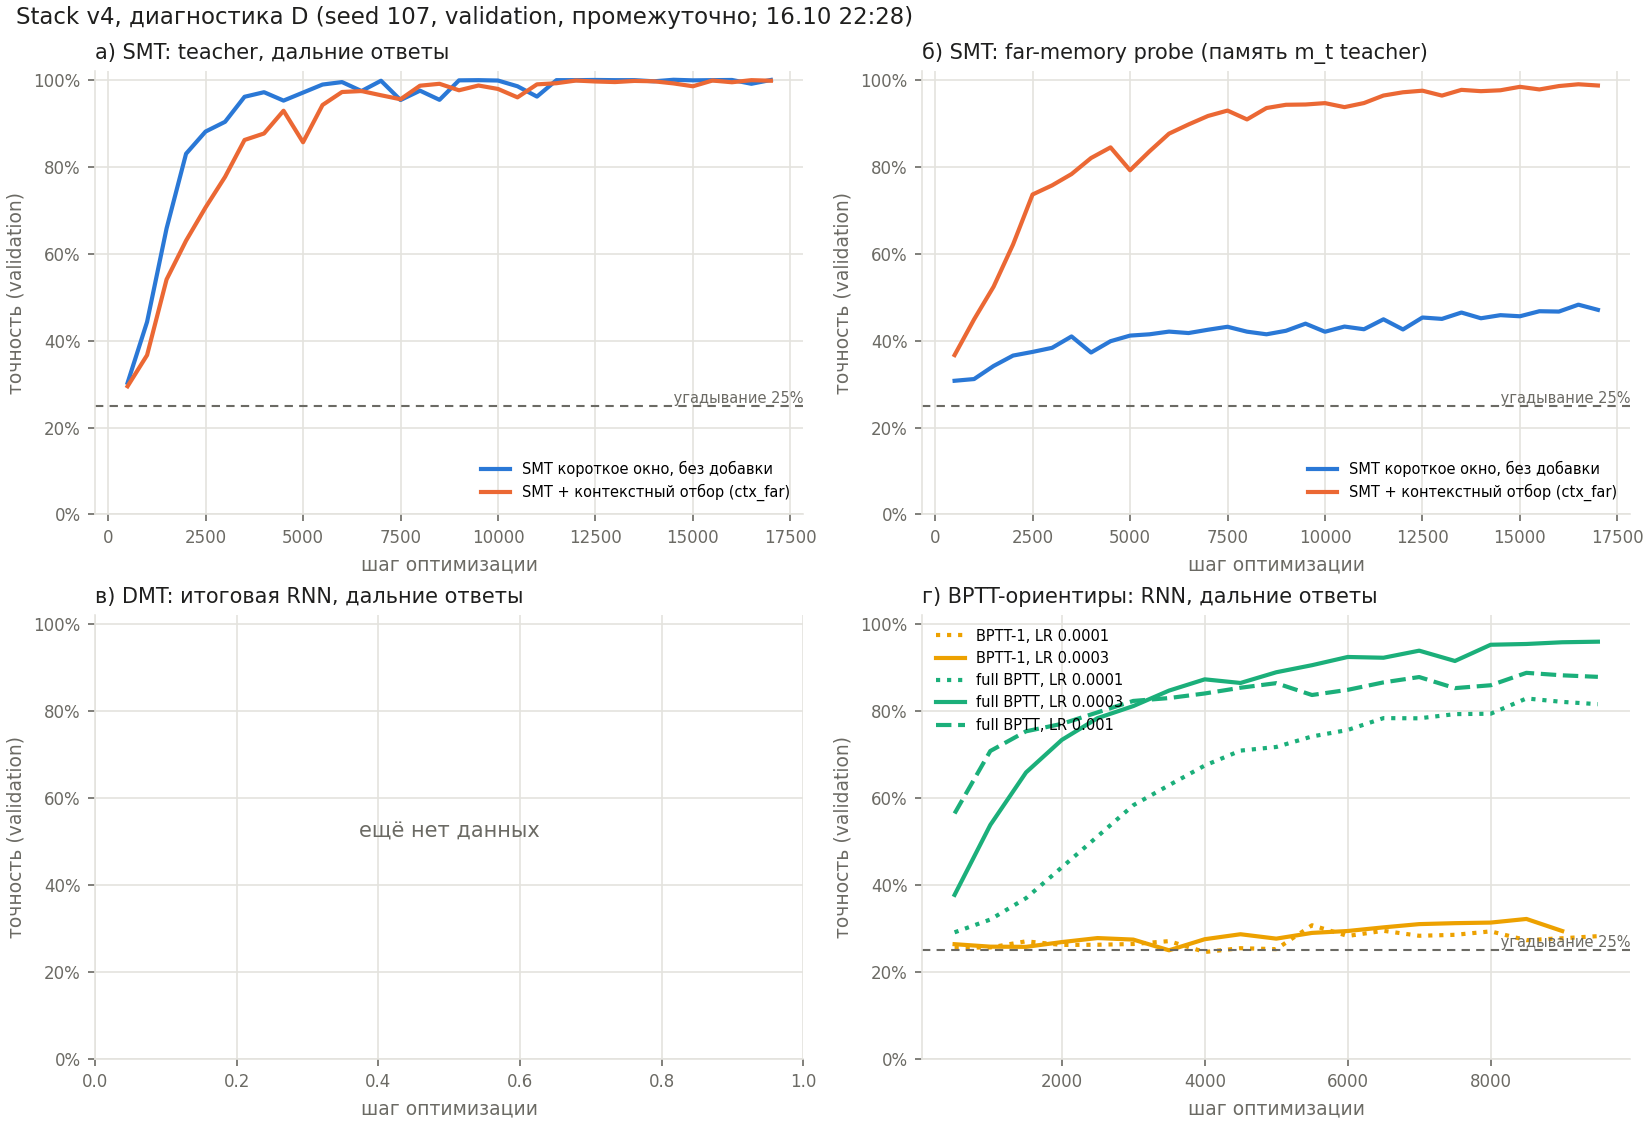
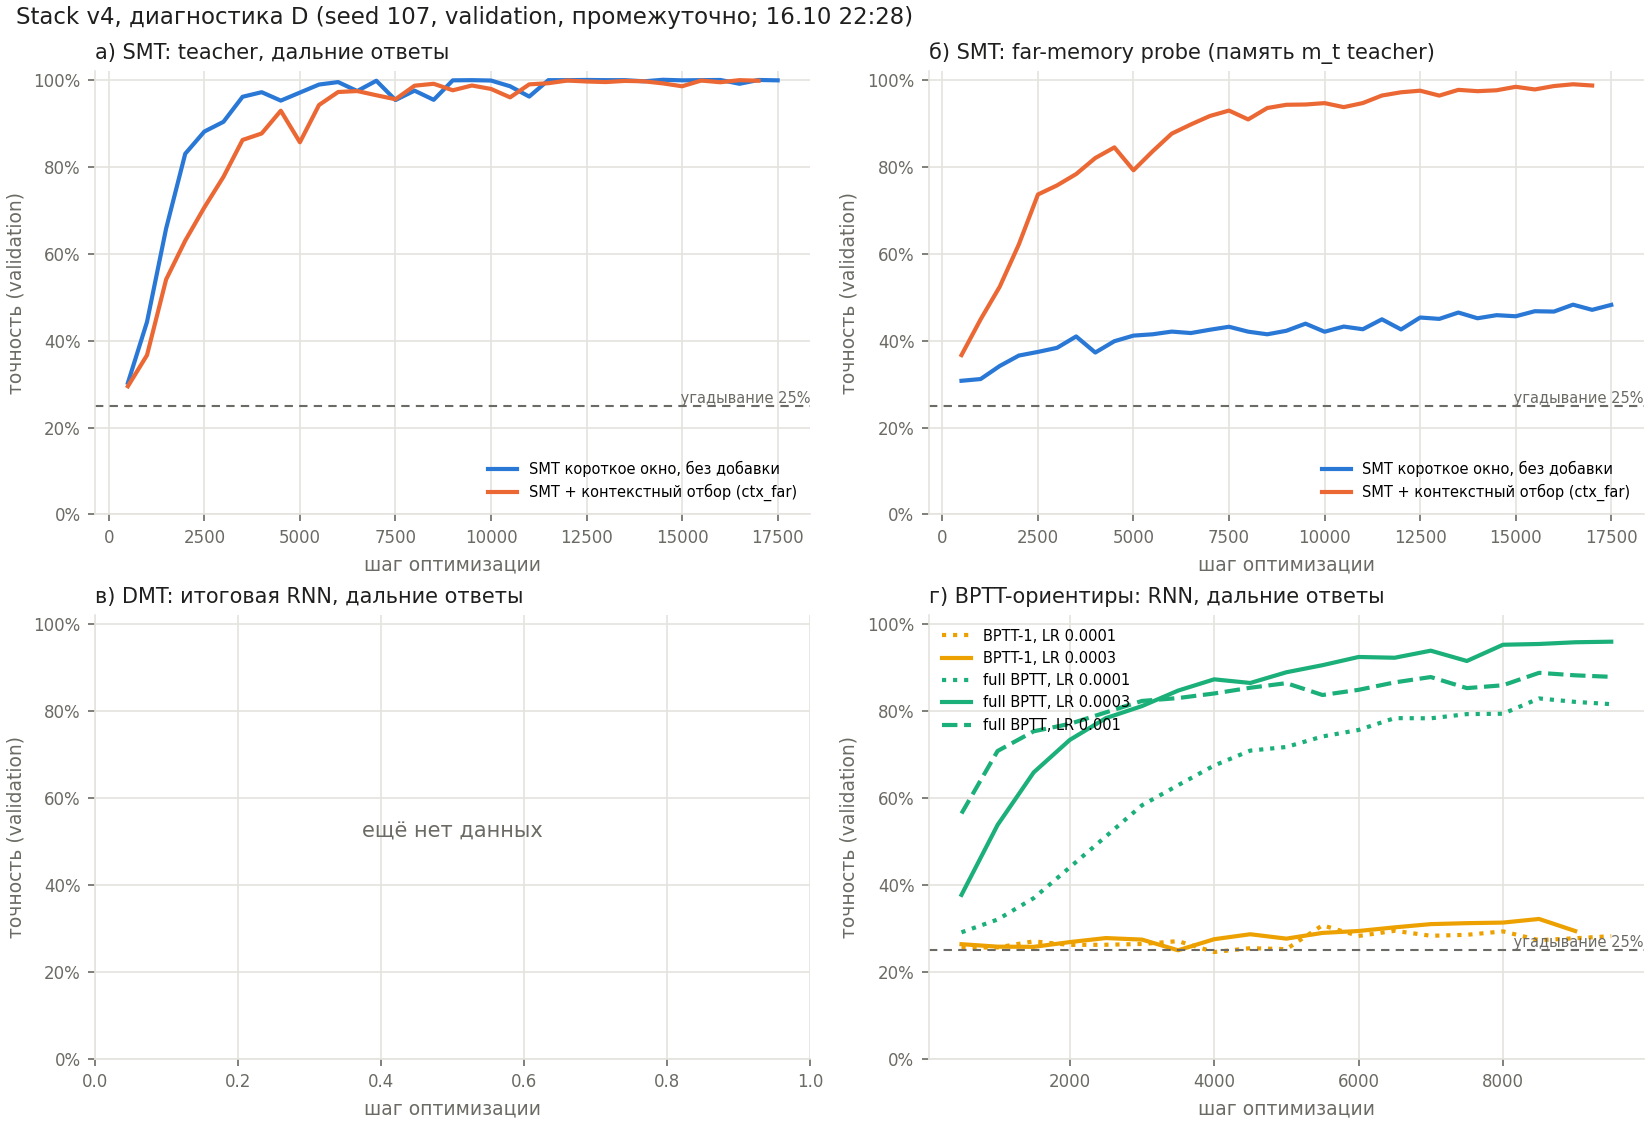
Progress 16.10 22:28: diagnostic queue (Stack v4 D, MQAR A, Zoology B) - interim validation figures, tables, logs
Interim, validation only; see outputs_v4/README.md. Checkpoints are not included.

diff --git a/outputs_v4/README.md b/outputs_v4/README.md
@@ -21,7 +21,7 @@
 
 | run | stage | steps_done | steps_max | best_acc | best_step | last_acc | gain_last_quarter_of_done | far_memory_acc_last | sec_per_step | train_hours | peak_allocated_mib |
 |---|---|---|---|---|---|---|---|---|---|---|---|
-| base_window | smt | 17000 | 20000 | 100.0% | 14500 | 100.0% | +0.0 п.п. | 47.1% | 0.34 | 1.62 | 7732 |
+| base_window | smt | 17500 | 20000 | 100.0% | 14500 | 99.9% | +0.0 п.п. | 48.2% | 0.34 | 1.66 | 7732 |
 | bptt_1_lr0.0001 | bptt | 9500 | 20000 | 30.7% | 5500 | 28.2% | +0.0 п.п. | — | 0.62 | 1.65 | 666 |
 | bptt_1_lr0.0003 | bptt | 9000 | 20000 | 32.2% | 8500 | 29.4% | +1.9 п.п. | — | 0.63 | 1.56 | 666 |
 | bptt_full_lr0.0001 | bptt | 9500 | 20000 | 82.9% | 8500 | 81.6% | +4.5 п.п. | — | 0.62 | 1.65 | 666 |
